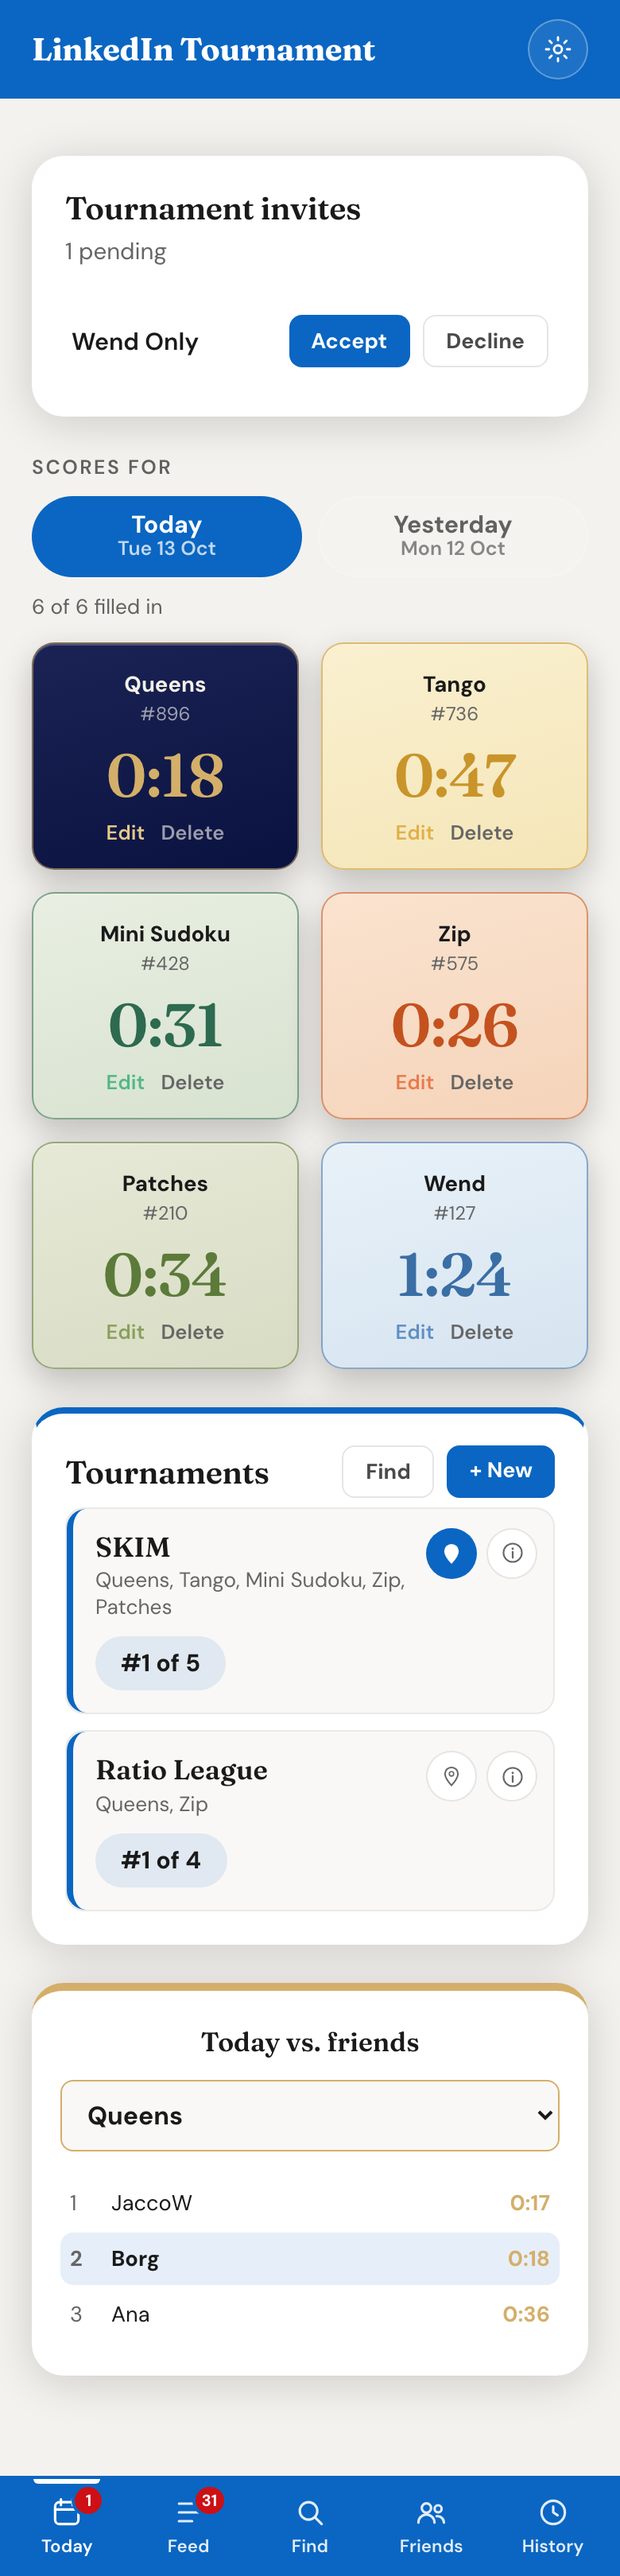
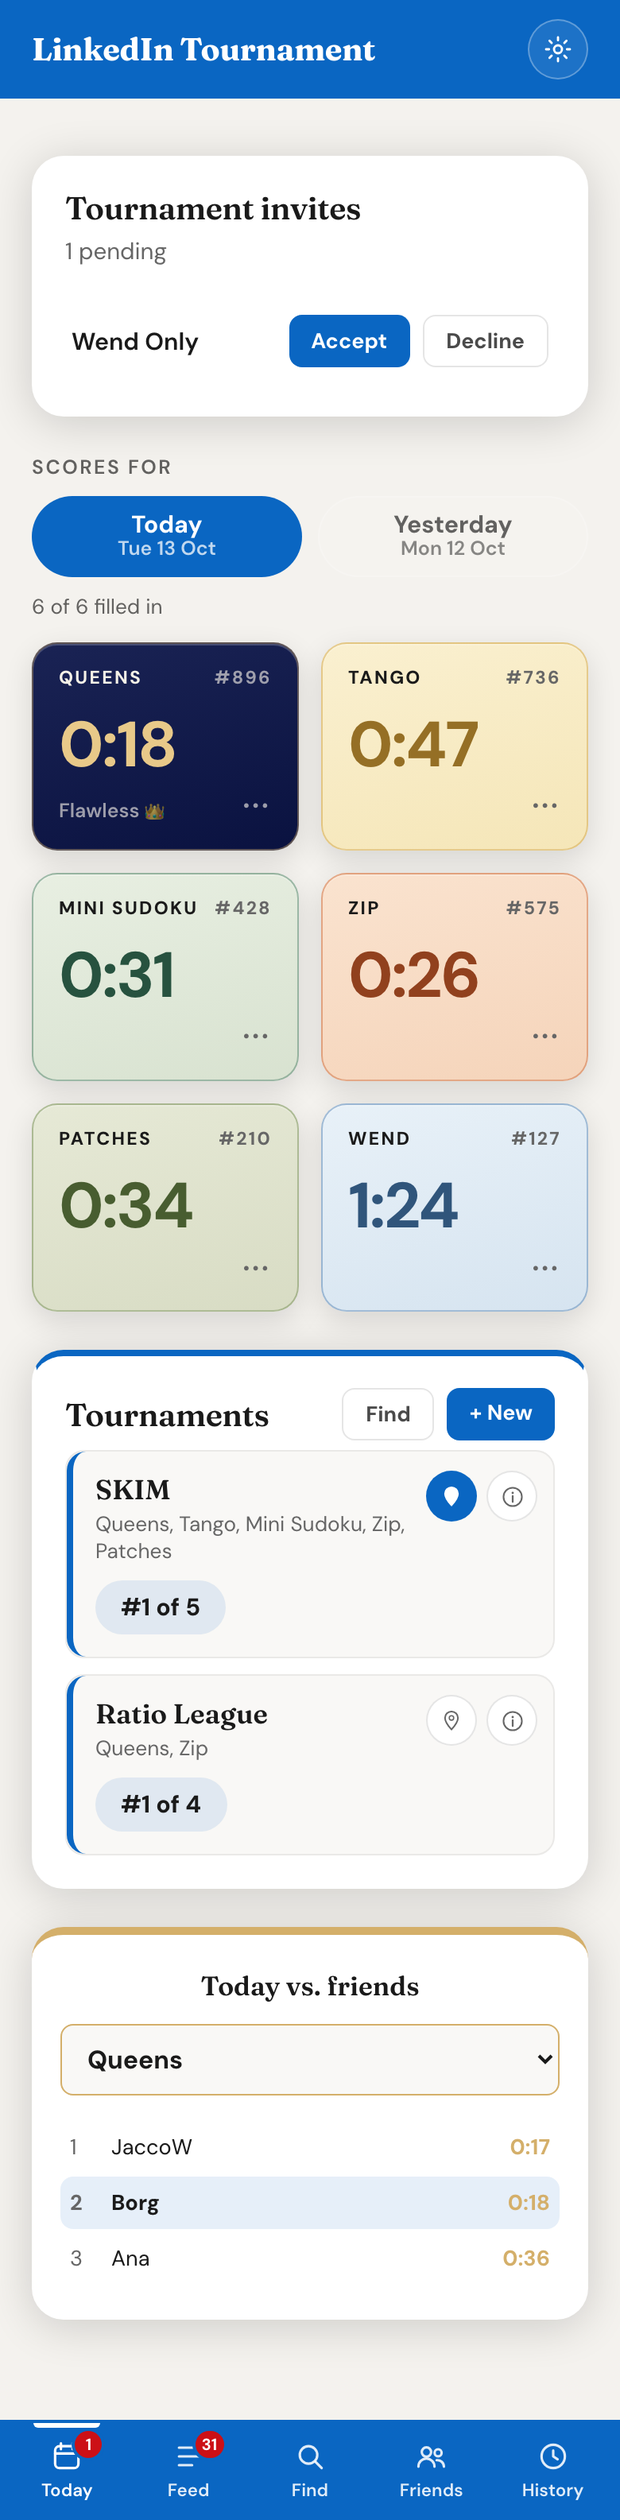
Score boxes: the scoreboard look
The game and puzzle number small along the top, the time as big as the
box allows in the game's own (deepened) colour, LinkedIn's qualifier
("flawless 👑") underneath, and Edit / Delete behind a ⋯ menu.

diff --git a/styles/globals.css b/styles/globals.css
@@ -652,7 +652,7 @@ button, input, select {
 }
 @media (hover: hover) and (pointer: fine) { .chip-link:hover { text-decoration: underline; } }
 .chip-link-danger { color: var(--text-muted); transition: color 120ms ease; }
-.score-box .chip-link { color: var(--sb-accent2, var(--accent)); }
+.score-box .chip-link { color: var(--sb-ink, var(--accent)); }
 .score-box .chip-link-danger { color: var(--sb-text-muted, var(--text-muted)); }
 .chip-link-danger:focus-visible,
 .chip-link-danger:active { color: #b0453a; }
@@ -801,36 +801,45 @@ button, input, select {
   .score-boxes-grid { grid-template-columns: repeat(auto-fill, minmax(120px, 1fr)); }
 }
 
+/* The "scoreboard" box: the game and puzzle number small along the top,
+   the time as big as the box allows, then the LinkedIn qualifier
+   ("flawless 👑") and a ⋯ menu for Edit / Delete along the bottom. */
 .score-box {
+  display: flex;
+  flex-direction: column;
   background: linear-gradient(165deg, var(--sb-bg-soft, var(--surface2)) 0%, var(--sb-bg, var(--surface)) 100%);
   color: var(--sb-text, var(--text));
-  border-radius: 14px;
-  border: 1px solid color-mix(in srgb, var(--sb-accent, var(--accent)) 55%, transparent);
-  padding: 16px 10px 14px;
-  text-align: center;
+  border-radius: 16px;
+  border: 1px solid color-mix(in srgb, var(--sb-accent, var(--accent)) 40%, transparent);
+  padding: 14px 16px 10px;
+  text-align: left;
   min-width: 0;
-  box-shadow:
-    0 1px 0 rgba(255, 255, 255, 0.2) inset,
-    0 8px 20px rgba(0, 0, 0, 0.22);
+  box-shadow: 0 1px 0 rgba(255, 255, 255, 0.2) inset, 0 6px 18px rgba(0, 0, 0, 0.12);
 }
 
 .score-box-head {
   display: flex;
-  flex-direction: column;
-  align-items: center;
-  gap: 2px;
-  margin-bottom: 10px;
+  justify-content: space-between;
+  align-items: baseline;
+  gap: 8px;
+  margin-bottom: 6px;
+  font-size: 0.72rem;
+  font-weight: 700;
+  letter-spacing: var(--track-label);
+  text-transform: uppercase;
 }
 
 .score-box-game {
-  font-weight: 700;
-  font-size: 0.86rem;
+  min-width: 0;
+  overflow: hidden;
+  text-overflow: ellipsis;
   white-space: nowrap;
 }
 
 .score-box-num {
-  font-size: 0.75rem;
+  flex-shrink: 0;
   color: var(--sb-text-muted, var(--text-muted));
+  font-variant-numeric: tabular-nums;
 }
 
 .score-box-loading {
@@ -842,7 +851,8 @@ button, input, select {
   display: flex;
   flex-direction: column;
   gap: 6px;
-  align-items: center;
+  align-items: flex-start;
+  margin-top: 4px;
 }
 
 .score-box-form input {
@@ -879,8 +889,7 @@ button, input, select {
 .score-box-done {
   display: flex;
   flex-direction: column;
-  align-items: center;
-  gap: 4px;
+  flex: 1;
 }
 
 /* Once it's entered, the time is what the box is for: as big as the box
@@ -889,14 +898,87 @@ button, input, select {
    desktop's wider ones, and "10:00" still fits on one line in either. */
 .score-box { container-type: inline-size; }
 .score-box-time {
-  font-family: 'Fraunces', serif;
-  font-size: 2rem;
-  font-size: clamp(2rem, 26cqi, 3.6rem);
+  font-family: 'DM Sans', -apple-system, BlinkMacSystemFont, sans-serif;
+  font-size: 2.4rem;
+  font-size: clamp(2.4rem, 30cqi, 4.75rem);
   line-height: 1;
+  font-weight: 800;
+  letter-spacing: -0.03em;
+  margin: 8px 0 4px;
+  color: var(--sb-ink, var(--accent));
+}
+
+.score-box-foot {
+  display: flex;
+  align-items: center;
+  justify-content: space-between;
+  gap: 8px;
+  min-height: 32px;
+  margin-top: auto;
+}
+.score-box-qualifier {
+  min-width: 0;
+  font-size: 0.78rem;
   font-weight: 600;
-  letter-spacing: -0.01em;
-  margin: 2px 0 4px;
-  color: var(--sb-accent, var(--accent));
+  color: var(--sb-text-muted, var(--text-muted));
+  overflow-wrap: anywhere;
+}
+.score-box-qualifier::first-letter { text-transform: uppercase; }
+
+.score-box-menu { position: relative; flex-shrink: 0; margin-right: -6px; }
+.score-box-more {
+  width: 32px;
+  height: 32px;
+  display: grid;
+  place-items: center;
+  border: 0;
+  border-radius: 50%;
+  background: transparent;
+  color: var(--sb-text-muted, var(--text-muted));
+  font-size: 1.1rem;
+  font-weight: 800;
+  line-height: 1;
+  cursor: pointer;
+  transition: background-color var(--dur-state) ease;
+}
+.score-box-more[aria-expanded="true"] { background: color-mix(in srgb, currentColor 14%, transparent); }
+@media (hover: hover) and (pointer: fine) {
+  .score-box-more:hover { background: color-mix(in srgb, currentColor 14%, transparent); }
+}
+.score-box-menu-list {
+  position: absolute;
+  right: 0;
+  bottom: calc(100% + 4px);
+  z-index: 5;
+  min-width: 130px;
+  padding: 4px;
+  background: var(--surface);
+  border: 1px solid var(--border);
+  border-radius: var(--radius-xs);
+  box-shadow: 0 10px 28px rgba(0, 0, 0, 0.18);
+  transform-origin: bottom right;
+  animation: notif-in 140ms var(--ease-out) both;
+}
+.score-box-menu-list button {
+  display: block;
+  width: 100%;
+  padding: 9px 12px;
+  border: 0;
+  border-radius: 6px;
+  background: transparent;
+  color: var(--text);
+  font: inherit;
+  font-size: 0.88rem;
+  font-weight: 600;
+  text-align: left;
+  cursor: pointer;
+}
+.score-box-menu-list .score-box-menu-danger { color: var(--loss); }
+@media (hover: hover) and (pointer: fine) {
+  .score-box-menu-list button:hover { background: var(--surface2); }
+}
+@media (prefers-reduced-motion: reduce) {
+  .score-box-menu-list { animation: none; }
 }
 
 .score-box-error {
@@ -907,7 +989,7 @@ button, input, select {
 
 .score-box-mode-toggle {
   display: block;
-  margin: 8px auto 0;
+  margin: 8px 0 0;
   font-size: 0.75rem;
   color: var(--sb-text-muted, var(--text-muted));
 }
@@ -940,8 +1022,9 @@ button, input, select {
 }
 .paste-score-actions {
   display: flex;
-  gap: 8px;
-  justify-content: center;
+  align-items: center;
+  gap: 8px 12px;
+  justify-content: flex-start;
   flex-wrap: wrap;
 }
 
@@ -2860,8 +2943,8 @@ html[data-theme="overall"] { --ed-bg:#f4f2ee; --ed-bg-soft:#f4f2ee; --ed-text:rg
 .quick-paste-saved { margin-top: 10px; color: var(--win); font-weight: 600; font-size: 0.88rem; }
 
 /* An empty box when the paste box above does the pasting. */
-.score-box-empty { display: flex; flex-direction: column; align-items: center; gap: 4px; }
-.score-box-dash { font-family: 'Fraunces', serif; font-size: 2rem; line-height: 1; color: var(--sb-text-muted, var(--text-muted)); }
+.score-box-empty { display: flex; flex-direction: column; align-items: flex-start; gap: 6px; margin-top: 8px; }
+.score-box-dash { font-size: 2.4rem; font-weight: 800; line-height: 1; color: var(--sb-text-muted, var(--text-muted)); opacity: 0.6; }
 
 /* ── Settings: game order (pages/settings.jsx) ── */
 .order-list { list-style: none; margin-top: 12px; display: flex; flex-direction: column; gap: 6px; }

diff --git a/components/ScoreBoxes.jsx b/components/ScoreBoxes.jsx
@@ -6,7 +6,7 @@
 // The day is explicit rather than "today": puzzles publish at 09:00, so
 // before then the live puzzle is still yesterday's, and you can switch to
 // the previous day to fill in one you missed.
-import { useState } from 'react';
+import { useState, useEffect, useRef } from 'react';
 import { useAuth } from '../lib/useAuth';
 import { useScoresForDate, submitScore, deleteScore } from '../lib/useScores';
 import {
@@ -23,6 +23,41 @@ import Skeleton from './Skeleton';
 function dayLabel(dateIso) {
   const [y, m, d] = dateIso.split('-').map(Number);
   return new Date(y, m - 1, d).toLocaleDateString(undefined, { weekday: 'short', day: 'numeric', month: 'short' });
+}
+
+// Edit and Delete, tucked behind "⋯" so the time has the box to itself.
+function ScoreBoxMenu({ label, onEdit, onDelete }) {
+  const [open, setOpen] = useState(false);
+  const ref = useRef(null);
+  useEffect(() => {
+    if (!open) return undefined;
+    const onDoc = e => { if (!ref.current?.contains(e.target)) setOpen(false); };
+    const onKey = e => { if (e.key === 'Escape') setOpen(false); };
+    document.addEventListener('mousedown', onDoc);
+    document.addEventListener('keydown', onKey);
+    return () => { document.removeEventListener('mousedown', onDoc); document.removeEventListener('keydown', onKey); };
+  }, [open]);
+  const pick = fn => () => { setOpen(false); fn(); };
+  return (
+    <div className="score-box-menu" ref={ref}>
+      <button
+        type="button"
+        className="score-box-more"
+        aria-haspopup="menu"
+        aria-expanded={open}
+        aria-label={`${label}: edit or delete`}
+        onClick={() => setOpen(o => !o)}
+      >
+        <span aria-hidden="true">⋯</span>
+      </button>
+      {open && (
+        <div className="score-box-menu-list" role="menu">
+          <button type="button" role="menuitem" onClick={pick(onEdit)}>Edit</button>
+          <button type="button" role="menuitem" className="score-box-menu-danger" onClick={pick(onDelete)}>Delete</button>
+        </div>
+      )}
+    </div>
+  );
 }
 
 function ScoreBox({ game, dateIso, existing, loadError, onRetry, defaultMode }) {
@@ -72,6 +107,9 @@ function ScoreBox({ game, dateIso, existing, loadError, onRetry, defaultMode }) 
   const boxStyle = {
     '--sb-accent': theme.accent,
     '--sb-accent2': theme.accent2,
+    // The time's colour: the game's own, deepened enough to read on its
+    // light background (Queens keeps its light gold on navy).
+    '--sb-ink': theme.onDark ? theme.accent2 : `color-mix(in srgb, ${theme.accent} 70%, #1a1a1a)`,
     '--sb-bg': theme.bg,
     '--sb-bg-soft': theme.bgSoft,
     '--sb-text': theme.onDark ? 'var(--text-on-dark)' : 'var(--text)',
@@ -131,9 +169,9 @@ function ScoreBox({ game, dateIso, existing, loadError, onRetry, defaultMode }) 
       ) : (
         <div className="score-box-done">
           <span className="score-box-time">{formatSeconds(existing.timeSeconds)}</span>
-          <div style={{ display: 'flex', gap: 10 }}>
-            <button className="chip-link" onClick={() => setEditing(true)}>Edit</button>
-            <button className="chip-link chip-link-danger" onClick={handleDelete}>Delete</button>
+          <div className="score-box-foot">
+            <span className="score-box-qualifier">{existing.qualifier || ''}</span>
+            <ScoreBoxMenu label={game.label} onEdit={() => setEditing(true)} onDelete={handleDelete} />
           </div>
         </div>
       )}
